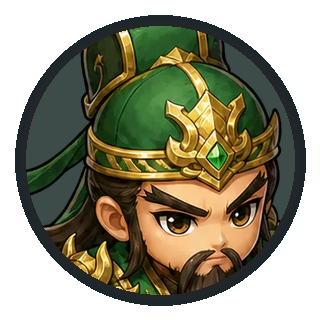
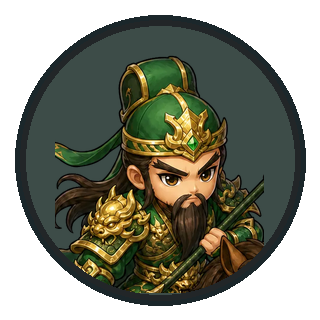
Keep complete hero faces inside map badges

diff --git a/scripts/build-hero-map-assets.py b/scripts/build-hero-map-assets.py
@@ -14,10 +14,10 @@ BADGE_SIZE = 320
 HERO_SPECS = {
     # outline_filter compensates for each hero's different rendered scale so
     # every contour has the same apparent thickness as Guan Yu on the map.
-    "guan-yu": {"face_crop": (430, 170, 770, 610), "outline_filter": 25},
-    "huang-zhong": {"face_crop": (340, 145, 690, 625), "outline_filter": 33},
-    "wei-yan": {"face_crop": (435, 165, 815, 665), "outline_filter": 33},
-    "zhao-yun": {"face_crop": (430, 145, 800, 590), "outline_filter": 27},
+    "guan-yu": {"face_crop": (360, 140, 830, 720), "outline_filter": 25},
+    "huang-zhong": {"face_crop": (300, 120, 730, 710), "outline_filter": 33},
+    "wei-yan": {"face_crop": (380, 125, 860, 735), "outline_filter": 33},
+    "zhao-yun": {"face_crop": (370, 115, 850, 670), "outline_filter": 27},
 }
 
 
@@ -42,15 +42,22 @@ def build_badge(source: Image.Image, crop_box: tuple[int, int, int, int]) -> Ima
     draw.ellipse((15, 15, 305, 305), fill=(27, 39, 43, 255))
     draw.ellipse((23, 23, 297, 297), fill=(61, 76, 72, 255))
 
-    face = ImageOps.fit(
+    # Preserve the complete head, face, beard and headgear. `contain` avoids
+    # the corner/edge cropping caused by square `fit` inside a round mask.
+    face = ImageOps.contain(
         source.crop(crop_box),
-        (278, 278),
+        (258, 258),
         method=Image.Resampling.LANCZOS,
-        centering=(0.5, 0.48),
     )
-    face_mask = Image.new("L", (278, 278), 0)
-    ImageDraw.Draw(face_mask).ellipse((0, 0, 277, 277), fill=255)
-    canvas.alpha_composite(Image.composite(face, Image.new("RGBA", face.size), face_mask), (21, 21))
+    face_layer = Image.new("RGBA", (278, 278), (0, 0, 0, 0))
+    face_layer.alpha_composite(
+        face,
+        ((278 - face.width) // 2, (278 - face.height) // 2 + 4),
+    )
+    circle_mask = Image.new("L", (278, 278), 0)
+    ImageDraw.Draw(circle_mask).ellipse((0, 0, 277, 277), fill=255)
+    face_layer.putalpha(ImageChops.multiply(face_layer.getchannel("A"), circle_mask))
+    canvas.alpha_composite(face_layer, (21, 21))
 
     # Neutral inner keyline; the grade colour is supplied by a separate ring.
     draw.ellipse((20, 20, 300, 300), outline=(15, 20, 22, 235), width=6)
